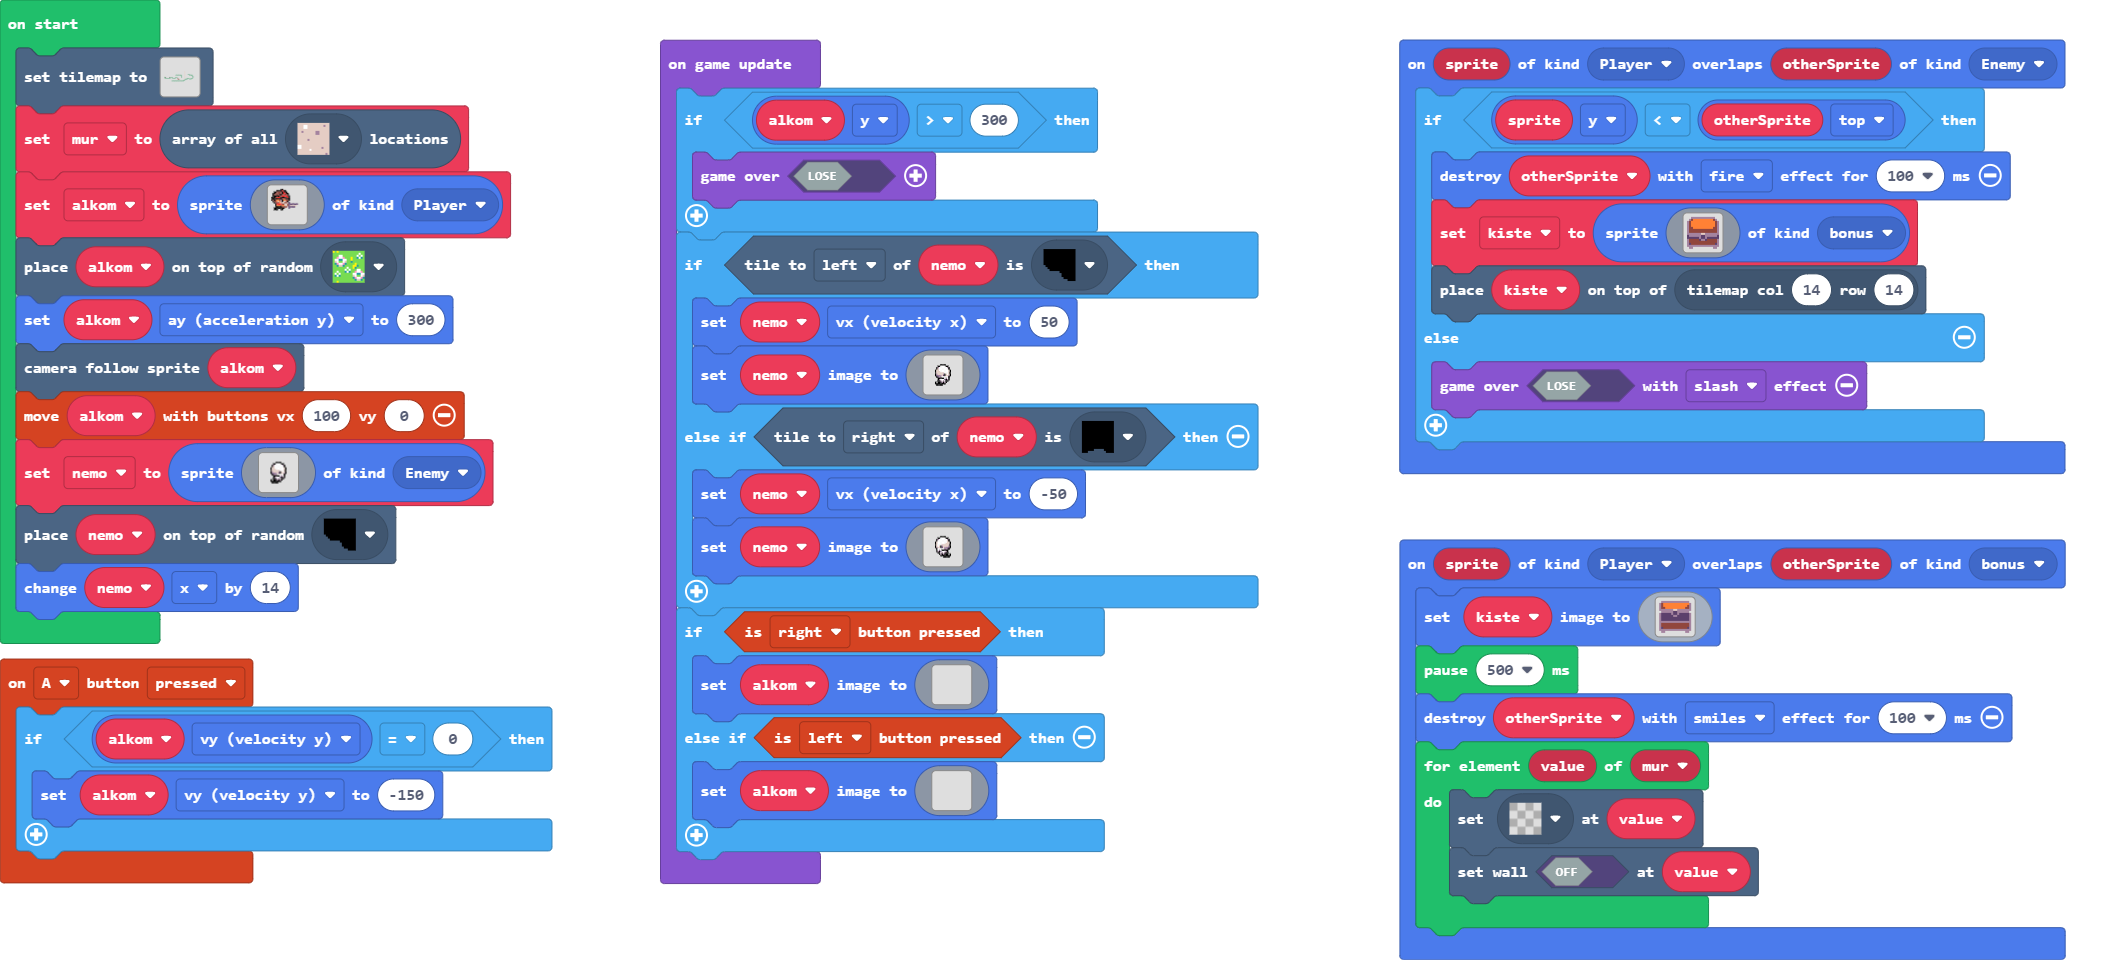
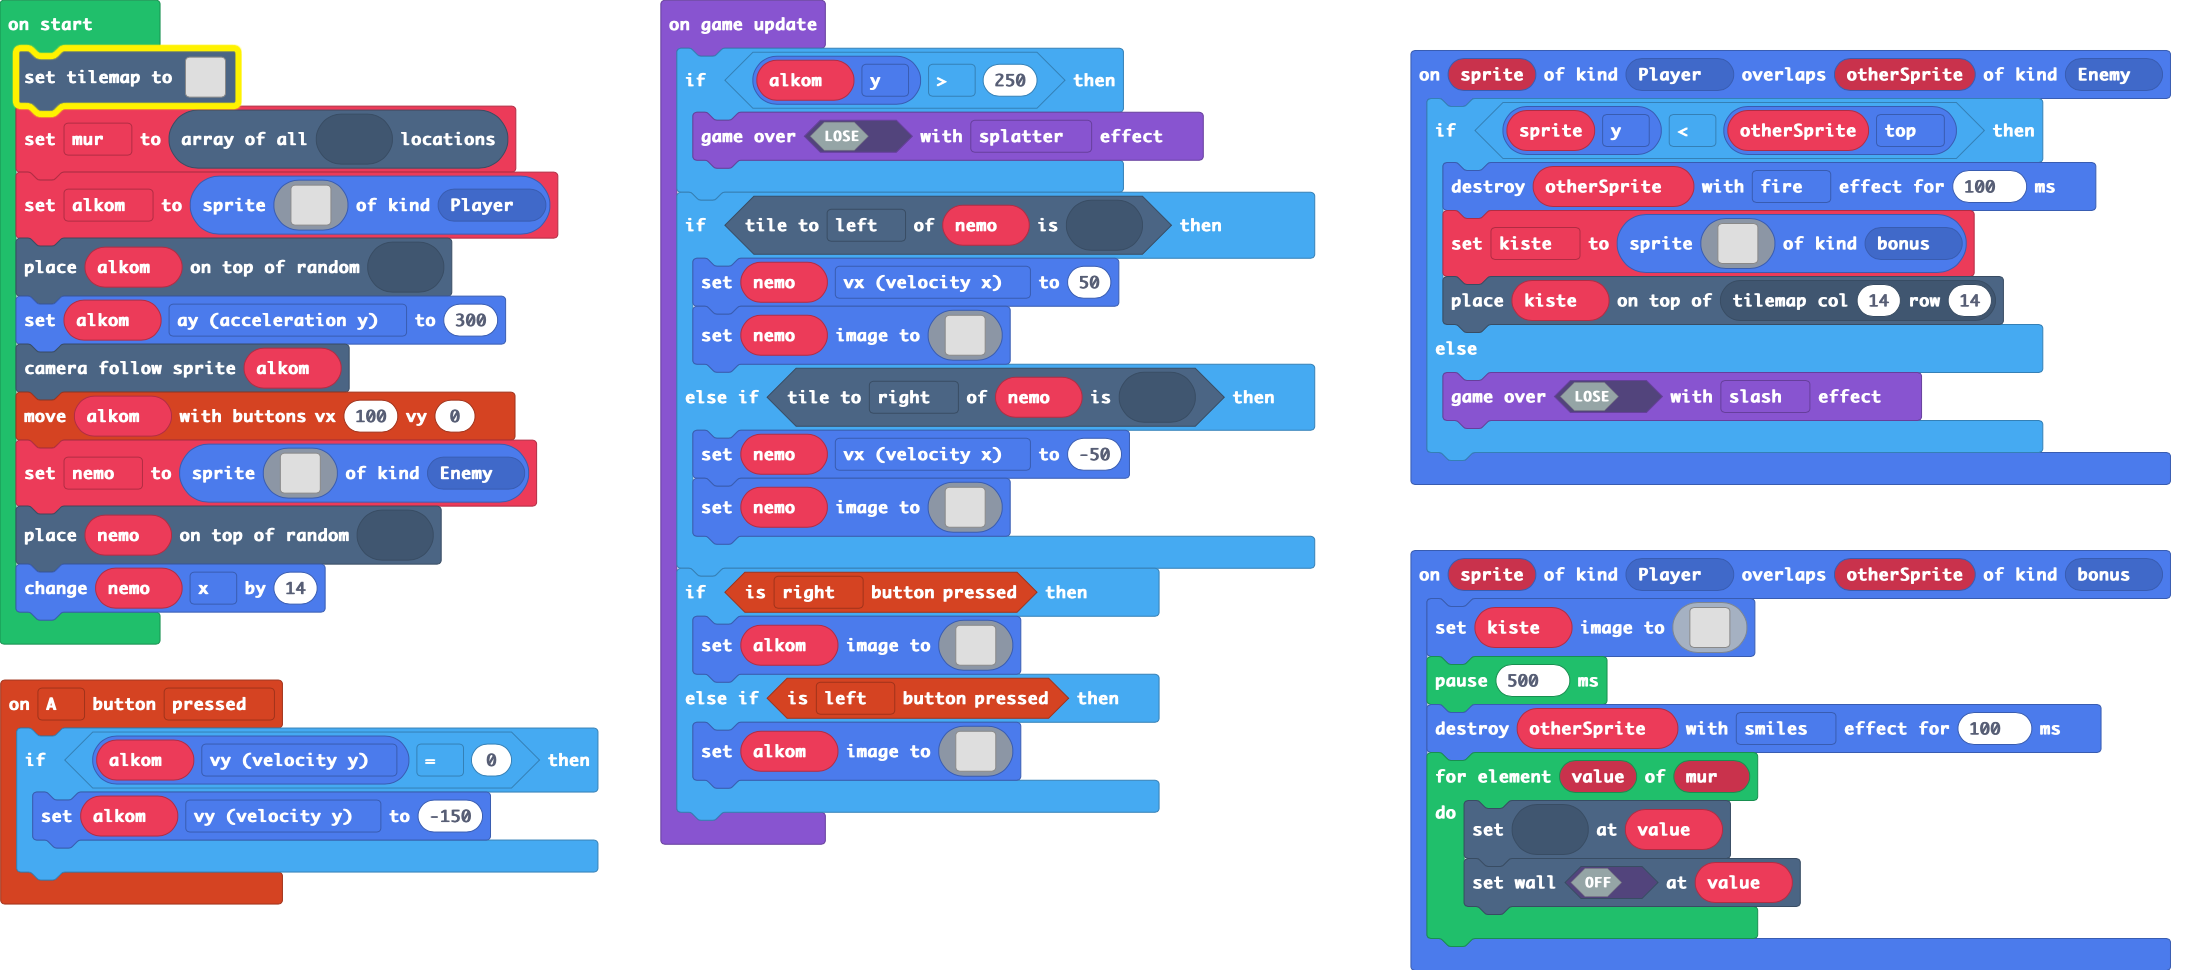
Update main.blocks, main.ts

diff --git a/main.ts b/main.ts
@@ -61,23 +61,23 @@ sprites.onOverlap(SpriteKind.Player, SpriteKind.Enemy, function (sprite, otherSp
 let kiste: Sprite = null
 let alkom: Sprite = null
 let mur: tiles.Location[] = []
-tiles.setTilemap(tiles.createTilemap(hex`320010000000000000000000000000000000000000000000000000000000000000000000050000000000000000000000000000000000000000000000000000000000000000000000000000000000000000000000000005000000000000000000000000000000000000000000000000000000000000000000000000000000000000000000000000000500000000000000000000000000000000000000000000000000000000000000000000000000000000000000000000000000050000000000000000000000000000000000000000000000000000000000000000000000000000000000000000000000000005000000000000000000000000000000000000000000000000000000000000000000000000000000000000000000000000000500000000010101000000000000000000000000000000000000000000000000000000000101010101010101010000000000050000000000000101010101000000000000000000000000000000000000000000000000000000000000000001010000000005000000000000000000000101000000000000000000000000000000000000000000000000000000000000000001000000000500000000000000000000000101000000000200000000000000000000000000000000000000000000000000000100000000050000000000000000000000000000000000010103000000000004010101010100000001010101000000000000010000000005000000000000000000000001010000000000010101010101010101000000010101010100000006000000000000000000000500000001010100000001010100000000000000000000000000000000000000000000000000000606000000000000000000050001010100000101010100000000000000000000000000000000000000000000000000000000000606000000000000000001010100000000000000000000000000000000000000000000000000000000000000000000000000000000000000000001010100000000000000000000000000000000000000000000000000000000000101010101010101010101010101010101010100000000000000000000000000000000000000`, img`
-    ................................2.................
-    ................................2.................
-    ................................2.................
-    ................................2.................
-    ................................2.................
-    ................................2....222..........
-    ..................222222222.....2......22222......
-    ..........................22....2..........22.....
-    ...........................2....2...........22....
-    ...........................2....2.................
-    22.......22222...2222......2....2...........22....
-    .222222222...22222...2..........2...222...222.....
-    .....................22.........2.222..2222.......
-    ......................22........222...............
-    ..............................222.................
-    ............2222222222222222222...................
+tiles.setTilemap(tiles.createTilemap(hex`4600100000000000000000000000000000000000000000000000000000000000000000000500000000000000000000000000000000000000000000000000000000000000000000000000000000000000000000000000000000000000000000000000000000000000000005000000000000000000000000000000000000000000000000000000000000000000000000000000000000000000000000000000000000000000000000000000000000000000050000000000000000000000000000000000000000000000000000000000000000000000000000000000000000000000000000000000000000000000000000000000000000000500000000000000000000000000000000000000000000000000000000000000000000000000000000000000000000000000000000000000000000000000000000000000000005000000000000000000000000000000000000000000000000000000000000000000000000000000000000000000000000000000000000000000000000000000000000000000050000000001010100000000000000000000000000000000000000000000000000000000000000000000000000000000000000000000000001010101010101010100000000000500000000000001010101010000000000000000000000000000000000000000000000000000000000000000000000000000000000000000000000000000000001010000000005000000000000000000000101000000000000000000000000000000000000000000000000000000000000000000000000000000000000000000000000000000000100000000050000000000000000000000010100000000000000000000000000000000000000000000000002000000000000000000000000000000000000000000000000000001000000000500000000000000000000000000000000000000000000000000000000000000000000000000010103000000000004010101010100000001010101000000000000010000000005000000000000000000000001010000000000000000000000000000000000000000000000000001010101010101010100000001010101010000000600000000000000000000050000000101010000000101010000000000000000000000000000000000000000000000000000000000000000000000000000000000000000000006060000000000000000000500010101000001010101000000000000000000000000000000000000000000000000000000000000000000000000000000000000000000000000000606000000000000000001010100000000000000000000000000000000000000000000000000000000000000000000000000000000000000000000000000000000000000000000000000000000000101010000000000000000000000000000000000000000000000000000000000000000000000000000000000000000000000000001010101010101010101010101010101010101000000000000000000000000000000000000000000000000000000000000000000000000000000`, img`
+    ................................2.....................................
+    ................................2.....................................
+    ................................2.....................................
+    ................................2.....................................
+    ................................2.....................................
+    ................................2....222..............................
+    ..................222222222.....2......22222..........................
+    ..........................22....2..........22.........................
+    ...........................2....2...........22........................
+    ...........................2....2.....................................
+    22.......22222...2222......2....2...........22........................
+    .222222222...22222...2..........2...222...222.........................
+    .....................22.........2.222..2222...........................
+    ......................22........222...................................
+    ..............................222.....................................
+    ............2222222222222222222.......................................
     `, [myTiles.transparency16,sprites.builtin.forestTiles0,sprites.castle.tileGrass2,sprites.builtin.oceanDepths8,sprites.builtin.oceanDepths9,sprites.castle.tilePath5,myTiles.tile2], TileScale.Sixteen))
 mur = tiles.getTilesByType(sprites.castle.tilePath5)
 alkom = sprites.create(img`
@@ -139,8 +139,8 @@ let nemo = sprites.create(img`
 tiles.placeOnRandomTile(nemo, sprites.builtin.oceanDepths8)
 nemo.x += 14
 game.onUpdate(function () {
-    if (alkom.y > 300) {
-        game.over(false)
+    if (alkom.y > 250) {
+        game.over(false, effects.splatter)
     }
     if (nemo.tileKindAt(TileDirection.Left, sprites.builtin.oceanDepths8)) {
         nemo.vx = 50
@@ -201,41 +201,57 @@ game.onUpdate(function () {
     }
     if (controller.right.isPressed()) {
         alkom.setImage(img`
-            . . . . . . . . . . . . . . . . 
-            . . . . . . . . . . . . . . . . 
-            . . . . . . . . . . . . . . . . 
-            . . . . . . . . . . . . . . . . 
-            . . . . . . . . . . . . . . . . 
-            . . . . . . . . . . . . . . . . 
-            . . . . . . . . . . . . . . . . 
-            . . . . . . . . . . . . . . . . 
-            . . . . . . . . . . . . . . . . 
-            . . . . . . . . . . . . . . . . 
-            . . . . . . . . . . . . . . . . 
-            . . . . . . . . . . . . . . . . 
-            . . . . . . . . . . . . . . . . 
-            . . . . . . . . . . . . . . . . 
-            . . . . . . . . . . . . . . . . 
-            . . . . . . . . . . . . . . . . 
+            .......ff...............
+            ....ffff2ff.............
+            ..ffeeeef2ff............
+            .ffeeeeef22ff...........
+            .feeeeffeeeef...........
+            .fffffee2222ef..........
+            fffe222ffffe2f..........
+            ffffffffeeefff..........
+            fefe44ebf44eef..........
+            .fee4d4bfddef...........
+            ..feee4dddee.c..........
+            ...f2222eeddeccccccc....
+            ...f444e44ddecddddd.....
+            ...fffffeeee.ccccc......
+            ..ffffffff...c..........
+            ..fff..ff...............
+            ........................
+            ........................
+            ........................
+            ........................
+            ........................
+            ........................
+            ........................
+            ........................
             `)
     } else if (controller.left.isPressed()) {
         alkom.setImage(img`
-            . . . . . . . . . . . . . . . . 
-            . . . . . . . . . . . . . . . . 
-            . . . . . . . . . . . . . . . . 
-            . . . . . . . . . . . . . . . . 
-            . . . . . . . . . . . . . . . . 
-            . . . . . . . . . . . . . . . . 
-            . . . . . . . . . . . . . . . . 
-            . . . . . . . . . . . . . . . . 
-            . . . . . . . . . . . . . . . . 
-            . . . . . . . . . . . . . . . . 
-            . . . . . . . . . . . . . . . . 
-            . . . . . . . . . . . . . . . . 
-            . . . . . . . . . . . . . . . . 
-            . . . . . . . . . . . . . . . . 
-            . . . . . . . . . . . . . . . . 
-            . . . . . . . . . . . . . . . . 
+            .......ff...............
+            ....ffff2ff.............
+            ..ffeeeef2ff............
+            .ffeeeeef22ff...........
+            .feeeeffeeeef...........
+            .fffffee2222ef..........
+            fffe222ffffe2f..........
+            ffffffffeeefff..........
+            fefe44ebf44eef..........
+            .fee4d4bfddef...........
+            ..feee4dddee.c..........
+            ...f2222eeddeccccccc....
+            ...f444e44ddecddddd.....
+            ...fffffeeee.ccccc......
+            ..ffffffff...c..........
+            ..fff..ff...............
+            ........................
+            ........................
+            ........................
+            ........................
+            ........................
+            ........................
+            ........................
+            ........................
             `)
     }
 })
